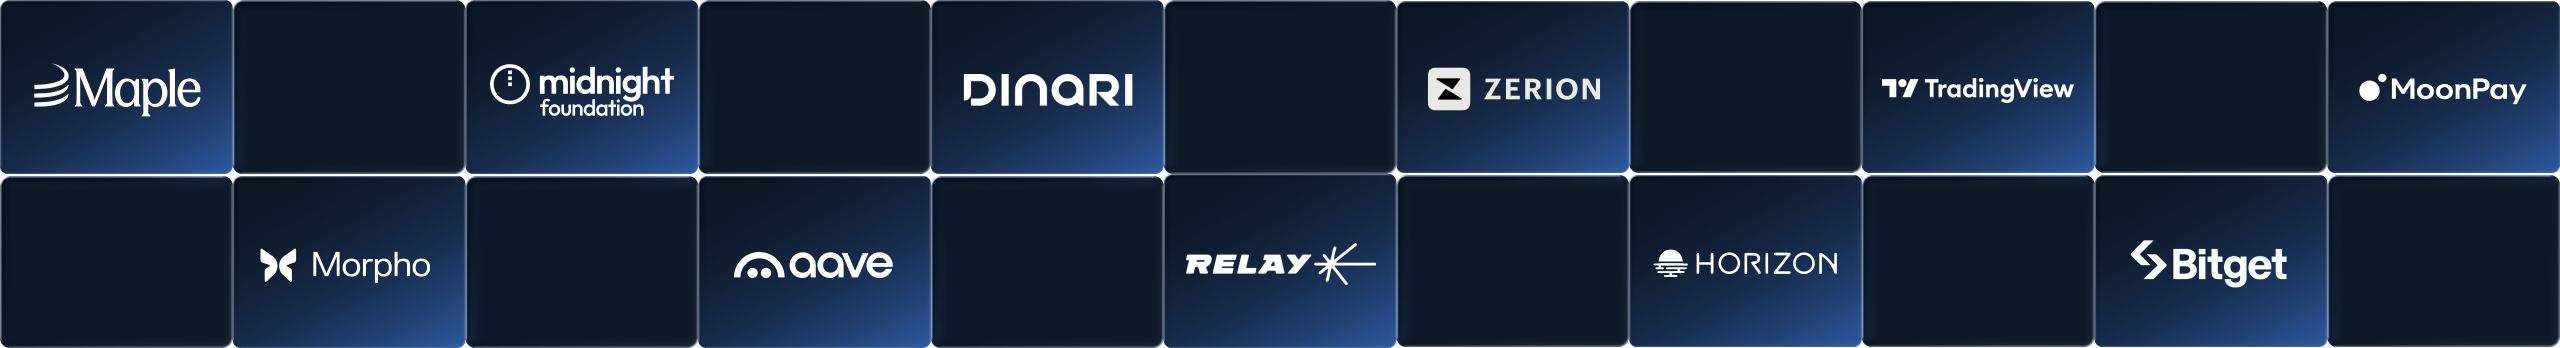
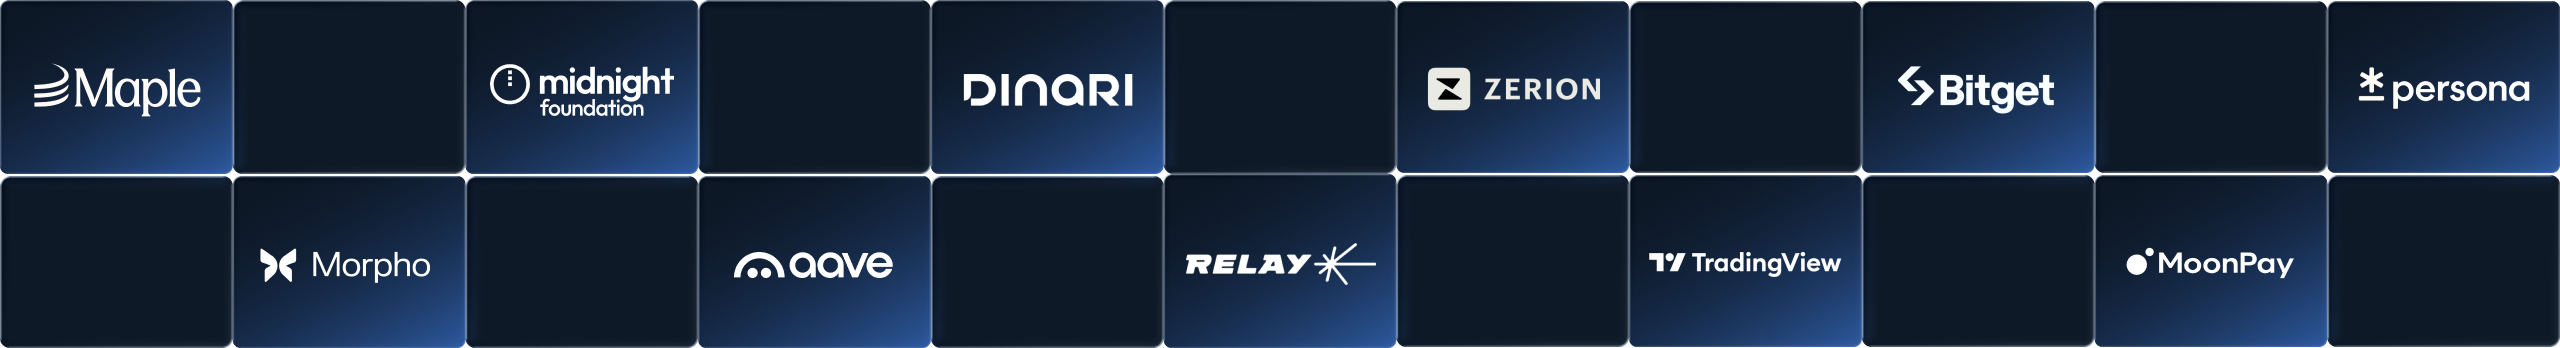
fix(partners): replace Horizon with Persona and update Midnight Foundation link

diff --git a/src/components/EcosystemPartnerMap.tsx b/src/components/EcosystemPartnerMap.tsx
@@ -23,7 +23,7 @@ const ecosystemPartners: EcosystemPartner[] = [
   },
   {
     name: "Midnight Foundation",
-    url: "https://midnight.gd/",
+    url: "https://midnight.foundation/",
     desktopCell: { column: 3, row: 1 },
     mobileCell: { column: 3, row: 1 },
   },
@@ -70,10 +70,10 @@ const ecosystemPartners: EcosystemPartner[] = [
     mobileCell: { column: 2, row: 4 },
   },
   {
-    name: "Horizon",
-    url: "https://www.horizonprotocol.com/",
-    desktopCell: { column: 8, row: 2 },
-    mobileCell: { column: 2, row: 7 },
+    name: "Persona",
+    url: "https://withpersona.com/",
+    desktopCell: { column: 11, row: 1 },
+    mobileCell: { column: 3, row: 8 },
   },
   {
     name: "Bitget",
